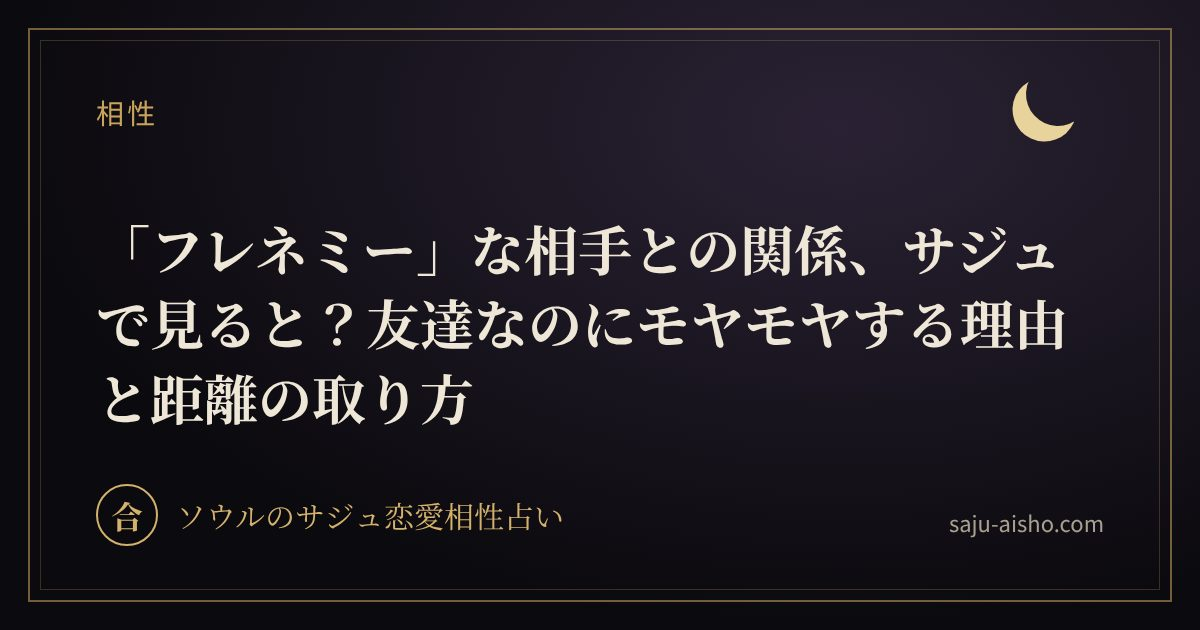
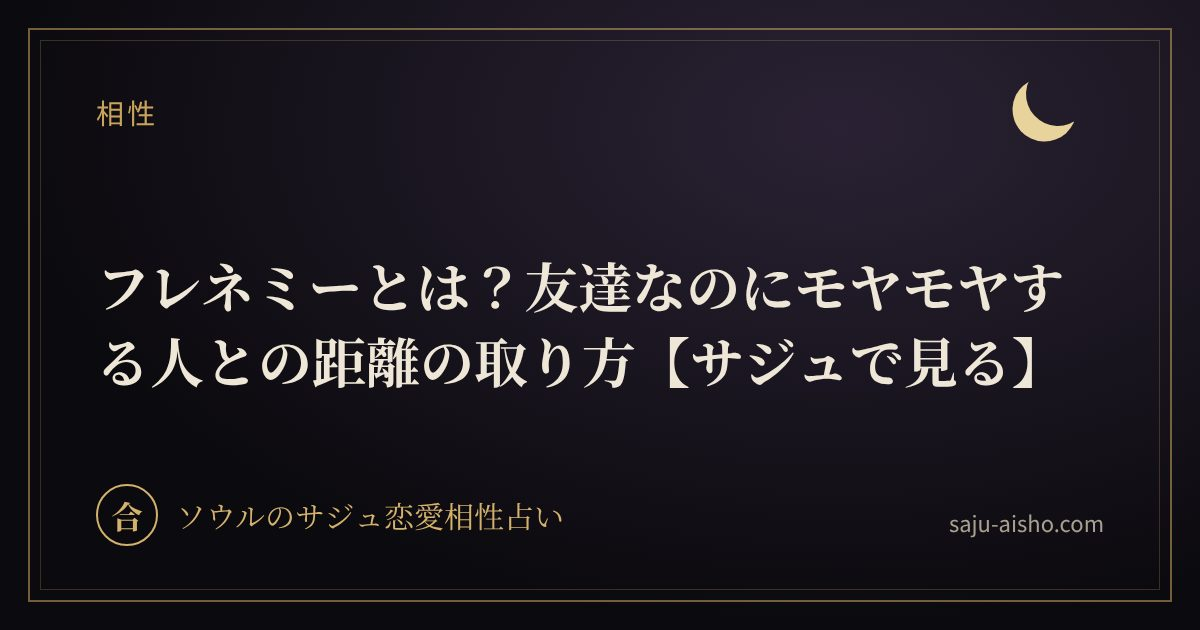
表示が多くクリックがない4記事のタイトルと説明文を、検索向けに短く直す
Claude-Session: https://claude.ai/code/session_016LnLn1Ec9XyU7DmEpWKGvH

Changed region(s): [[0.0617, 0.3619, 0.8942, 0.6937]]

diff --git a/src/content/articles/frenemy-saju.md b/src/content/articles/frenemy-saju.md
@@ -1,6 +1,6 @@
 ---
-title: 「フレネミー」な相手との関係、サジュで見ると？友達なのにモヤモヤする理由と距離の取り方
-description: 2026年の流行語大賞にノミネートされた「フレネミー」。友達なのにモヤモヤする相手との関係を、韓国の占いサジュ（四柱推命）の「比肩」「劫財」の考え方で読み解きます。よくある5つのタイプと返し方、職場・友人・SNSの場面別の対処法もまとめます。
+title: フレネミーとは？友達なのにモヤモヤする人との距離の取り方【サジュで見る】
+description: フレネミー（友達のふりをしたライバル）とは？友達なのにモヤモヤする相手のよくある5つのタイプと、職場・友人・SNSの場面別の距離の取り方を、韓国の占いサジュ（四柱推命）の考え方で解説します。
 category: 相性
 publishedAt: 2026-11-04
 updatedAt: 2026-11-06

diff --git a/src/content/articles/gengoka-koi.md b/src/content/articles/gengoka-koi.md
@@ -1,6 +1,6 @@
 ---
-title: 流行語大賞ノミネート「言語化」。"好き"をうまく言葉にできない人へ、日主別・気持ちの伝え方
-description: 2026年の新語・流行語大賞にノミネートされた「言語化」。好きな気持ちやモヤモヤをうまく言葉にできない理由を、韓国の占いサジュ（四柱推命）の日主10タイプ別に読み解き、伝え方のコツと一言の例を紹介します。
+title: 言語化が苦手な人へ。日主別・"好き"の伝え方【流行語大賞ノミネート】
+description: 「好き」やモヤモヤをうまく言葉にできない人へ。韓国の占いサジュ（四柱推命）の日主10タイプ別に、気持ちが伝わりにくい理由と、そのまま使えるひとことの例を紹介します。流行語大賞ノミネート「言語化」から考えます。
 category: 恋愛の悩み
 publishedAt: 2026-11-06
 pr: true

diff --git a/src/content/articles/hagaren-gogyo.md b/src/content/articles/hagaren-gogyo.md
@@ -1,6 +1,6 @@
 ---
-title: 『鋼の錬金術師』25周年。錬丹術と「五行」から知る、韓国の占いサジュ
-description: 『鋼の錬金術師』に登場する東の国の「錬丹術」と、そのもとになった東洋の「陰陽五行」の考え方を紹介。五行で占う韓国のサジュ（四柱推命）の仕組みと、サジュの「鋼」タイプ＝庚（かのえ）の性格と恋愛もまとめます。
+title: 鋼の錬金術師の「錬丹術」と五行｜25周年に知る、韓国の占いサジュ
+description: 『鋼の錬金術師』の東の国の錬丹術のもとになった「陰陽五行」とは？木・火・土・金・水の関係と、五行で占う韓国のサジュ（四柱推命）、「鋼」タイプ＝庚金の性格と恋愛をわかりやすく紹介します。
 category: サジュの基本
 publishedAt: 2026-11-02
 pr: true

diff --git a/src/content/articles/ritto-fuyu-koi.md b/src/content/articles/ritto-fuyu-koi.md
@@ -1,6 +1,6 @@
 ---
-title: 11月7日は立冬。サジュでは「水の月」が始まる日。日主別・冬の恋の過ごし方
-description: 2026年の立冬は11月7日。暦の上で冬が始まるこの日、韓国の占いサジュ（四柱推命）では月の柱が「亥（い）」に切り替わり、水の季節に入ります。立冬の意味と、日主10タイプ別の冬の恋のヒントをまとめます。
+title: 冬の恋の過ごし方を日主別に｜立冬から始まるサジュの「水の月」
+description: 寒くなると人恋しくなるのはなぜ？立冬（11月7日ごろ）から始まる、韓国の占いサジュの「水の月」の意味と、日主10タイプ別の冬の恋の過ごし方・会い方のヒントを紹介します。
 category: 恋愛の悩み
 publishedAt: 2026-11-03
 pr: true
